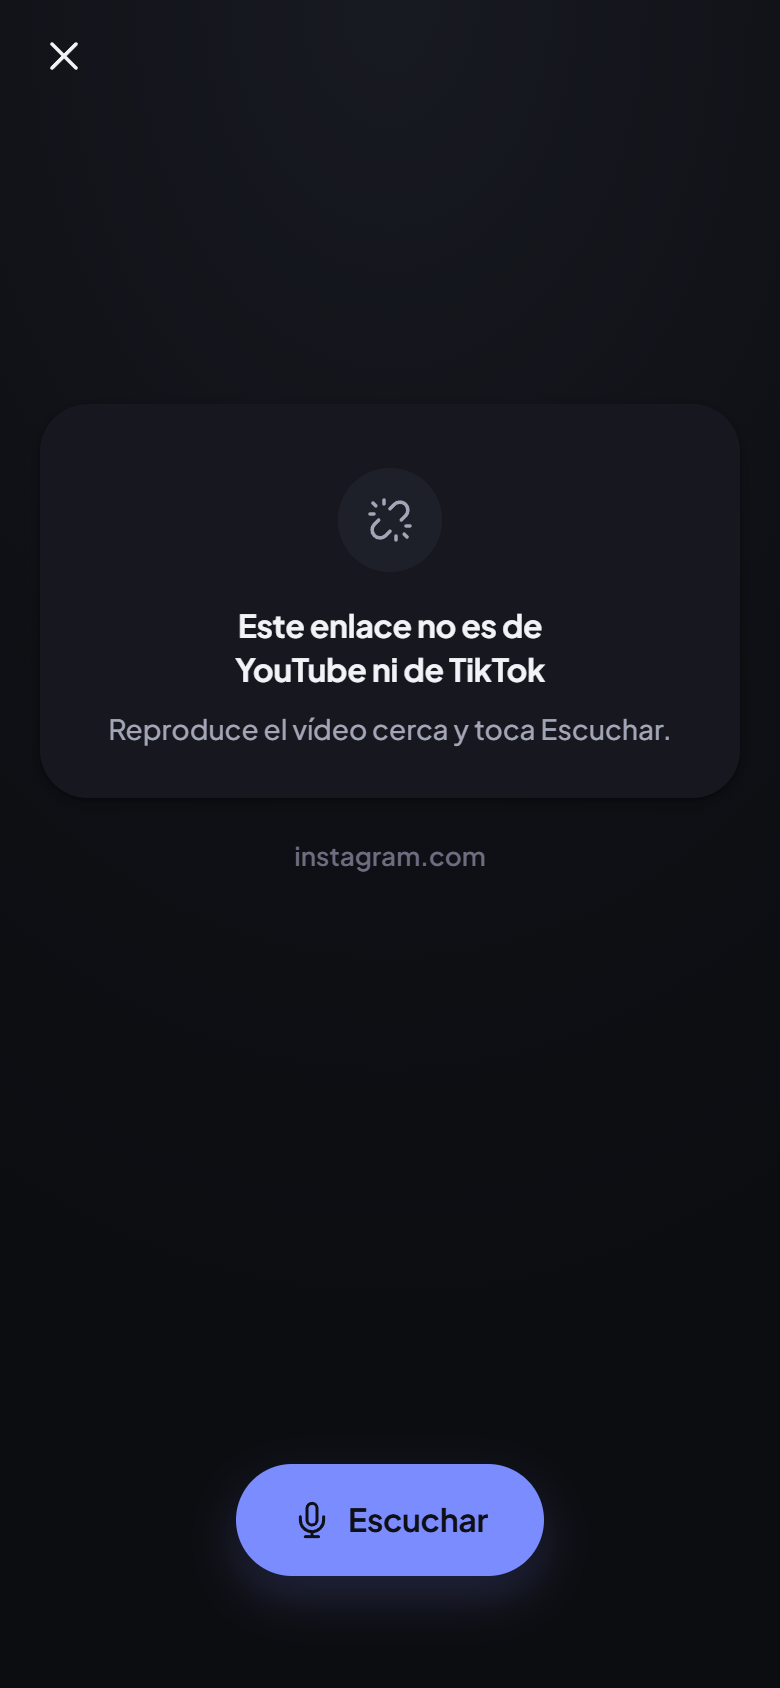
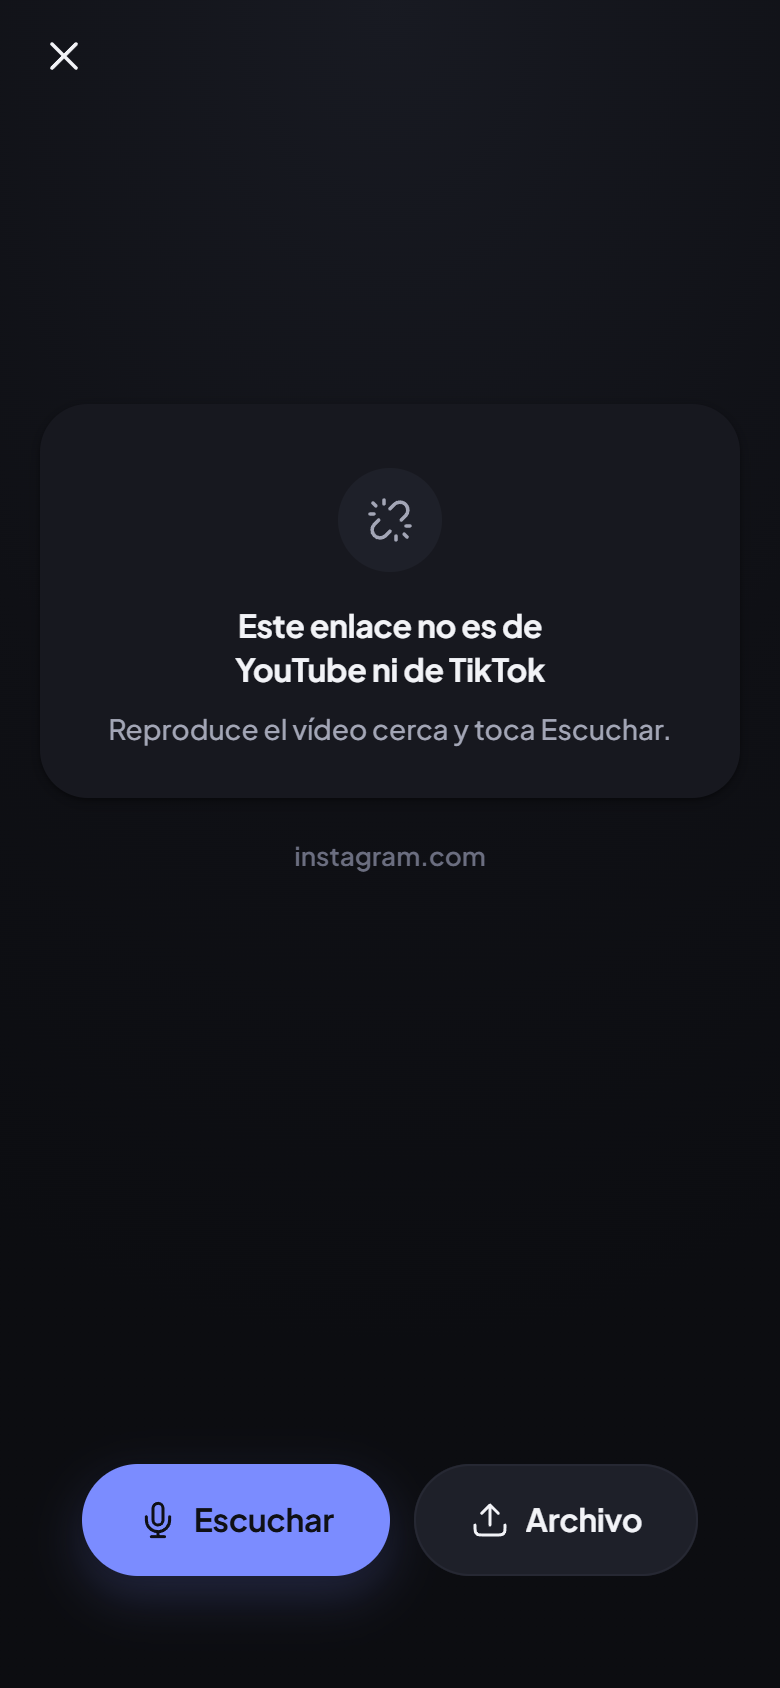
Enlace: grabar el sonido del vídeo en el ordenador y avisar si no llega sonido
- En el ordenador el botón principal es «Grabar el vídeo»: captura la propia
  pestaña de Pauta (preferCurrentTab), donde suena el reproductor oficial, con una
  sola confirmación. El micrófono queda como alternativa.
- En el móvil (sin captura de pestaña en los navegadores): «Escuchar» por el
  micrófono con el aviso de subir el volumen, y «Archivo» para el sonido exacto
  de un vídeo guardado.
- Si no llega sonido en 3 s, una línea dice qué hacer.
- e2e-share: comprobación de audio real de un vídeo de YouTube (--audio).

Changed region(s): [[0.0923, 0.8626, 0.8308, 0.955], [0.8615, 0.8626, 0.8923, 0.9242]]

diff --git a/src/features/share/LinkScreen.tsx b/src/features/share/LinkScreen.tsx
@@ -99,6 +99,7 @@ function LinkView({ link }: { link: SharedLink }) {
   const [shown, setShown] = useState(false)
   const [video, setVideo] = useState<EmbedState | null>(null)
   const [nudge, setNudge] = useState(false)
+  const [sound, setSound] = useState<{ muted: boolean; volume: number } | null>(null)
   const [attempt, setAttempt] = useState(0)
   const [opening, setOpening] = useState(false)
   const player = useRef<EmbedPlayer | null>(null)
@@ -145,6 +146,7 @@ function LinkView({ link }: { link: SharedLink }) {
   const onReady = useCallback(() => setShown(true), [])
   const onState = useCallback((state: EmbedState) => setVideo(state), [])
   const onError = useCallback((error: EmbedError) => setBlock((current) => current ?? error), [])
+  const onSound = useCallback((next: { muted: boolean; volume: number }) => setSound(next), [])
 
   // The take plays the video; if it does not start (mobile autoplay rules), suggest tapping it.
   const recording = take.phase === 'recording'
@@ -198,6 +200,18 @@ function LinkView({ link }: { link: SharedLink }) {
   const cardH = Math.round(cardW / ratio)
 
   const takeBlocked = take.phase === 'denied' || take.phase === 'error'
+  // One quiet line under the title: what the phone does with the sound, or what to fix when nothing arrives.
+  const hint = recording
+    ? nudge
+      ? 'Toca el vídeo si no empieza'
+      : take.silent
+        ? take.mode === 'tab'
+          ? 'No llega sonido. Comparte «Esta pestaña» con su audio.'
+          : 'No llega sonido. Sube el volumen del vídeo.'
+        : ''
+    : !desktop && hasPlayer && !takeBlocked
+      ? 'El vídeo suena por el altavoz: sube el volumen.'
+      : ''
   const taking = recording || take.phase === 'stopping'
   const state = block ?? (shown ? 'ready' : 'loading')
   const meta = link.platform === 'other' ? hostOf(link.url) : [platformName(link.platform), info?.author].filter(Boolean).join(' · ')
@@ -206,7 +220,7 @@ function LinkView({ link }: { link: SharedLink }) {
   return (
     <Page className="share-link">
       <TopBar left={<IconButton icon={XClose} label="Cerrar" onClick={close} />} />
-      <div className="share-link__stage" data-platform={link.platform} data-state={state} data-video={video ?? undefined}>
+      <div className="share-link__stage" data-platform={link.platform} data-state={state} data-video={video ?? undefined} data-muted={sound ? String(sound.muted) : undefined}>
         <AnimatePresence mode="wait" initial={false}>
           {block ? (
             <BlockCard
@@ -238,6 +252,7 @@ function LinkView({ link }: { link: SharedLink }) {
                   onReady={onReady}
                   onState={onState}
                   onError={onError}
+                  onSound={onSound}
                   className={cx('share-player__frame', shown && 'is-shown')}
                 />
               )}
@@ -248,8 +263,8 @@ function LinkView({ link }: { link: SharedLink }) {
         <div className="share-link__info">
           {title ? <h1 className="share-link__title">{title}</h1> : <h1 className="visually-hidden">Vídeo compartido</h1>}
           {meta && <p className="share-link__meta">{meta}</p>}
-          <p className={cx('share-link__nudge', nudge && 'is-on')} aria-live="polite">
-            {nudge ? 'Toca el vídeo si no empieza' : ''}
+          <p className={cx('share-link__nudge', hint && 'is-on')} aria-live="polite">
+            {hint}
           </p>
         </div>
 
@@ -265,7 +280,7 @@ function LinkView({ link }: { link: SharedLink }) {
                 transition={{ duration: 0.28, ease }}
               >
                 <p role="alert">{take.message}</p>
-                <Button onClick={() => void take.start(take.mode)}>Reintentar</Button>
+                <Button onClick={() => void take.start(take.mode, { currentTab: hasPlayer })}>Reintentar</Button>
               </motion.div>
             ) : taking ? (
               <motion.div key="meter" initial={{ opacity: 0 }} animate={{ opacity: 1 }} exit={{ opacity: 0 }} transition={{ duration: 0.24, ease }}>
@@ -296,28 +311,58 @@ function LinkView({ link }: { link: SharedLink }) {
               Escuchar
             </Button>
           </>
-        ) : (
+        ) : desktop && hasPlayer ? (
+          // Computer: record the player's own sound (this tab); the microphone is only the fallback.
           <>
             <Button
               variant="accent"
+              size="lg"
+              icon={Monitor02}
+              loading={take.phase === 'starting' && take.mode === 'tab'}
+              disabled={take.phase === 'starting'}
+              onClick={() => void take.start('tab')}
+            >
+              Grabar el vídeo
+            </Button>
+            <Button
+              variant="secondary"
               size="lg"
               icon={Microphone01}
               loading={take.phase === 'starting' && take.mode === 'mic'}
               disabled={take.phase === 'starting'}
               onClick={() => void take.start('mic')}
             >
+              Micrófono
+            </Button>
+          </>
+        ) : (
+          // Phone (or no player here): a browser cannot capture the player's audio, only the microphone. A saved
+          // file is the exact-audio route.
+          <>
+            <Button
+              variant="accent"
+              size="lg"
+              icon={Microphone01}
+              loading={take.phase === 'starting' && take.mode === 'mic'}
+              disabled={take.phase === 'starting' || opening}
+              onClick={() => void take.start('mic')}
+            >
               Escuchar
             </Button>
-            {desktop && (
+            {desktop ? (
               <Button
                 variant="secondary"
                 size="lg"
                 icon={Monitor02}
                 loading={take.phase === 'starting' && take.mode === 'tab'}
                 disabled={take.phase === 'starting'}
-                onClick={() => void take.start('tab')}
+                onClick={() => void take.start('tab', { currentTab: false })}
               >
                 Pestaña
+              </Button>
+            ) : (
+              <Button variant="secondary" size="lg" icon={Upload01} loading={opening} disabled={take.phase === 'starting'} onClick={() => fileInput.current?.click()}>
+                Archivo
               </Button>
             )}
           </>

diff --git a/src/features/share/useLinkTake.ts b/src/features/share/useLinkTake.ts
@@ -13,6 +13,11 @@ import { haptic } from '../capture/util'
 
 export type TakePhase = 'idle' | 'starting' | 'recording' | 'stopping' | 'denied' | 'error'
 
+/** Below this input level (0..1, about -57 dB) nothing useful is arriving. */
+export const SILENT_LEVEL = 0.05
+/** A take silent for this long shows a hint (pick this tab with its audio / turn the volume up). */
+export const SILENT_AFTER_MS = 3000
+
 /** Tiny external store for the ~30 Hz input level, so only the bars re-render. */
 export function createLevelStore() {
   let value = 0
@@ -58,6 +63,8 @@ export function useLinkTake({ describe, onStart, onStop }: TakeOptions) {
   const [mode, setMode] = useState<CaptureMode>('mic')
   const [message, setMessage] = useState('')
   const [elapsed, setElapsed] = useState(0)
+  const [silent, setSilent] = useState(false)
+  const lastLoud = useRef(0)
 
   const alive = useRef(false)
   const handle = useRef<RecorderHandle | null>(null)
@@ -79,7 +86,7 @@ export function useLinkTake({ describe, onStart, onStop }: TakeOptions) {
 
   /** Must run inside the tap: tab capture needs the user gesture. */
   const start = useCallback(
-    async (next: CaptureMode) => {
+    async (next: CaptureMode, { currentTab = true }: { currentTab?: boolean } = {}) => {
       if (starting.current || stopping.current || handle.current) return
       starting.current = true
       takeMode.current = next
@@ -87,14 +94,26 @@ export function useLinkTake({ describe, onStart, onStop }: TakeOptions) {
       setPhase('starting')
       setMessage('')
       setElapsed(0)
+      setSilent(false)
       levels.set(0)
       try {
-        const take = await startRecording({ mode: next, maxSeconds: maxSec, onLevel: levels.set, onAutoStop: () => finishRef.current() })
+        // Tab mode captures THIS tab (the official player plays here): Chrome hides it from the picker otherwise.
+        const take = await startRecording({
+          mode: next,
+          maxSeconds: maxSec,
+          onLevel: (level) => {
+            if (level >= SILENT_LEVEL) lastLoud.current = Date.now()
+            levels.set(level)
+          },
+          onAutoStop: () => finishRef.current(),
+          preferCurrentTab: next === 'tab' && currentTab,
+        })
         if (!alive.current) {
           take.cancel()
           return
         }
         handle.current = take
+        lastLoud.current = take.startedAt
         setPhase('recording')
         haptic()
         callbacks.current.onStart?.()
@@ -153,7 +172,9 @@ export function useLinkTake({ describe, onStart, onStop }: TakeOptions) {
     if (phase !== 'recording') return
     const tick = () => {
       const take = handle.current
-      if (take) setElapsed(Math.min(maxSec, (Date.now() - take.startedAt) / 1000))
+      if (!take) return
+      setElapsed(Math.min(maxSec, (Date.now() - take.startedAt) / 1000))
+      setSilent(Date.now() - lastLoud.current > SILENT_AFTER_MS)
     }
     tick()
     const id = window.setInterval(tick, 200)
@@ -170,5 +191,5 @@ export function useLinkTake({ describe, onStart, onStop }: TakeOptions) {
 
   const stop = useCallback(() => void finishRef.current(), [])
 
-  return { phase, mode, message, elapsed, maxSec, levels, start, finish: stop, cancel }
+  return { phase, mode, message, elapsed, maxSec, levels, silent: silent && phase === 'recording', start, finish: stop, cancel }
 }

diff --git a/src/features/share/players.ts b/src/features/share/players.ts
@@ -12,6 +12,8 @@ export interface EmbedCallbacks {
   onReady(): void
   onState(state: EmbedState): void
   onError(error: EmbedError): void
+  /** The player's own sound state once it plays (a muted player gives a silent take). */
+  onSound?(sound: { muted: boolean; volume: number }): void
 }
 
 export interface EmbedPlayer {
@@ -38,6 +40,9 @@ interface YTPlayer {
   playVideo(): void
   pauseVideo(): void
   unMute(): void
+  isMuted(): boolean
+  getVolume(): number
+  setVolume(volume: number): void
   destroy(): void
 }
 
@@ -106,7 +111,20 @@ export function createYouTubePlayer(container: HTMLElement, link: SharedLink, cb
     if (!player || !ready) return
     try {
       player.unMute()
+      if (player.getVolume() < 50) player.setVolume(100)
       player.playVideo()
+    } catch {
+      // the iframe went away
+    }
+  }
+
+  // YouTube falls back to MUTED playback when the browser blocks sound, and a muted player gives a silent
+  // take: when Pauta asked for sound, unmute it again and report what the player says.
+  const checkSound = () => {
+    if (!player) return
+    try {
+      if (wantPlay && player.isMuted()) player.unMute()
+      cb.onSound?.({ muted: player.isMuted(), volume: player.getVolume() })
     } catch {
       // the iframe went away
     }
@@ -138,7 +156,9 @@ export function createYouTubePlayer(container: HTMLElement, link: SharedLink, cb
           },
           onStateChange: (e: { data: number }) => {
             const state = YT_STATES[e.data]
-            if (state && !destroyed) cb.onState(state)
+            if (!state || destroyed) return
+            cb.onState(state)
+            if (state === 'playing') checkSound()
           },
           onError: (e: { data: number }) => {
             if (!destroyed) cb.onError(youtubeError(e.data))

diff --git a/src/engine/audio/recorder.ts b/src/engine/audio/recorder.ts
@@ -118,7 +118,7 @@ function stopTracks(stream: MediaStream | null) {
   })
 }
 
-async function acquireStream(mode: CaptureMode): Promise<MediaStream> {
+async function acquireStream(mode: CaptureMode, preferCurrentTab = false): Promise<MediaStream> {
   if (mode === 'mic') {
     if (!micSupported()) throw namedError('NotSupportedError', 'Este navegador no permite grabar audio.')
     try {
@@ -134,7 +134,11 @@ async function acquireStream(mode: CaptureMode): Promise<MediaStream> {
   let stream: MediaStream
   try {
     // systemAudio / suppressLocalAudioPlayback are Chromium extensions missing from some DOM typings.
-    const options = { video: true, audio: { ...MUSIC_AUDIO, suppressLocalAudioPlayback: false }, systemAudio: 'include' }
+    const options: Record<string, unknown> = { video: true, audio: { ...MUSIC_AUDIO, suppressLocalAudioPlayback: false }, systemAudio: 'include' }
+    if (preferCurrentTab) {
+      // The media plays in this very tab (official embed): Chrome hides the current tab unless asked to.
+      Object.assign(options, { preferCurrentTab: true, selfBrowserSurface: 'include', surfaceSwitching: 'include' })
+    }
     stream = await navigator.mediaDevices.getDisplayMedia(options as DisplayMediaStreamOptions)
   } catch (err) {
     throw captureError(err, 'tab')
@@ -230,7 +234,7 @@ function abortError(): Error {
 }
 
 export async function startCapture(opts: RecorderOptions): Promise<RecorderHandle> {
-  const stream = await acquireStream(opts.mode)
+  const stream = await acquireStream(opts.mode, opts.preferCurrentTab === true)
   const audioStream = new MediaStream(stream.getAudioTracks())
 
   const mimeType = pickRecorderMime()

diff --git a/src/features/share/EmbedFrame.tsx b/src/features/share/EmbedFrame.tsx
@@ -10,13 +10,14 @@ interface EmbedFrameProps {
   onReady: () => void
   onState: (state: EmbedState) => void
   onError: (error: EmbedError) => void
+  onSound?: (sound: { muted: boolean; volume: number }) => void
   className?: string
 }
 
-export function EmbedFrame({ link, playerRef, onReady, onState, onError, className }: EmbedFrameProps) {
+export function EmbedFrame({ link, playerRef, onReady, onState, onError, onSound, className }: EmbedFrameProps) {
   const ref = useRef<HTMLDivElement>(null)
-  const callbacks = useRef({ onReady, onState, onError })
-  callbacks.current = { onReady, onState, onError }
+  const callbacks = useRef({ onReady, onState, onError, onSound })
+  callbacks.current = { onReady, onState, onError, onSound }
 
   useEffect(() => {
     const el = ref.current
@@ -25,6 +26,7 @@ export function EmbedFrame({ link, playerRef, onReady, onState, onError, classNa
       onReady: () => callbacks.current.onReady(),
       onState: (state) => callbacks.current.onState(state),
       onError: (error) => callbacks.current.onError(error),
+      onSound: (sound) => callbacks.current.onSound?.(sound),
     })
     playerRef.current = player
     return () => {

diff --git a/src/engine/audio/index.ts b/src/engine/audio/index.ts
@@ -68,6 +68,12 @@ export interface RecorderOptions {
   /** Auto-stop after this many seconds (fires onAutoStop; stop() still resolves the blob). */
   maxSeconds?: number
   onAutoStop?: () => void
+  /**
+   * Tab mode only: offer THIS tab first in Chrome's picker ("Esta pestaña") and allow picking it at all
+   * (Chrome hides the current tab by default). For screens that play the media themselves (the share link
+   * screen with the official embed). Added by share, 2026-10-27.
+   */
+  preferCurrentTab?: boolean
 }
 
 export interface RecorderHandle {

diff --git a/README.md b/README.md
@@ -122,10 +122,10 @@ Está escrito para Windows, Linux y macOS (rutas con `path.join`, Chrome localiz
 - **Polifonía densa.** En acordes de piano real aparecen fantasmas de octava y notas internas tapadas (F1 de 0,76 a 0,80 en las pruebas, frente a 1,00 en una escala).
 - **Una sola voz por pentagrama** y reparto de manos por un punto de división (ajustable). Las texturas a varias voces se simplifican.
 - **Tempo**: en algunas texturas se detecta el doble o la mitad; se corrige con «Tempo base». El 6/8 solo se elige a mano.
-- **Enlaces de YouTube y TikTok: Pauta nunca descarga el vídeo.** Lo abre con el reproductor oficial de la plataforma y lo escucha por el micrófono mientras suena, así que la calidad depende del altavoz y del micrófono (un archivo de audio o de vídeo da mejor resultado) y hace falta conexión. Los vídeos con la inserción desactivada por su autor no se reproducen dentro de Pauta: la app propone ponerlos en otro dispositivo cerca y tocar «Escuchar».
+- **Enlaces de YouTube y TikTok: Pauta nunca descarga el vídeo.** Lo abre con el reproductor oficial de la plataforma. En el ordenador, «Grabar el vídeo» captura el sonido del propio reproductor (Chrome pide confirmar «Esta pestaña» con su audio). En el móvil ningún navegador puede capturar el sonido de un reproductor ni de otra app: Pauta lo escucha por el micrófono mientras suena por el altavoz, así que la calidad depende del volumen; para el sonido exacto, guarda el vídeo (si la plataforma lo permite) y compártelo con Pauta o ábrelo con «Archivo». Hace falta conexión. Los vídeos con la inserción desactivada por su autor no se reproducen dentro de Pauta: la app propone ponerlos en otro dispositivo cerca y tocar «Escuchar».
 - **TikTok comparte enlaces cortos** (`vm.tiktok.com`): Pauta intenta resolverlos con el oEmbed oficial de TikTok, que a menudo limita las peticiones; si no se puede, pide guardar el vídeo desde TikTok y abrirlo con «Archivo». En Europa, el reproductor de TikTok muestra antes su propio aviso de cookies.
 - **«Compartir con Pauta» desde la hoja de compartir solo existe en Android**, con la app instalada desde una dirección HTTPS en Chrome. En iPhone (una PWA no puede recibir contenido compartido; hará falta la app nativa con una extensión de compartir) y en el ordenador, el enlace se pega con «Enlace» en Inicio.
-- La **captura de pestaña** solo existe en Chrome y Edge de escritorio. En la pantalla de un enlace, «Pestaña» captura otra pestaña (por ejemplo, el vídeo abierto en YouTube) o la pantalla con su audio: Chrome todavía no ofrece la propia pestaña de Pauta. El **micrófono** necesita HTTPS (o `localhost`).
+- La **captura de pestaña** solo existe en Chrome y Edge de escritorio. El **micrófono** necesita HTTPS (o `localhost`).
 - La **primera transcripción** tarda algo más porque carga y prepara el modelo (de 4 a 10 s en un ordenador; más en móviles).
 - Piezas muy largas a velocidad lenta ocupan bastante memoria al reproducirse (el audio se genera entero).
 - Probada en Chrome de escritorio con emulación móvil; falta probarla en dispositivos iOS reales.
